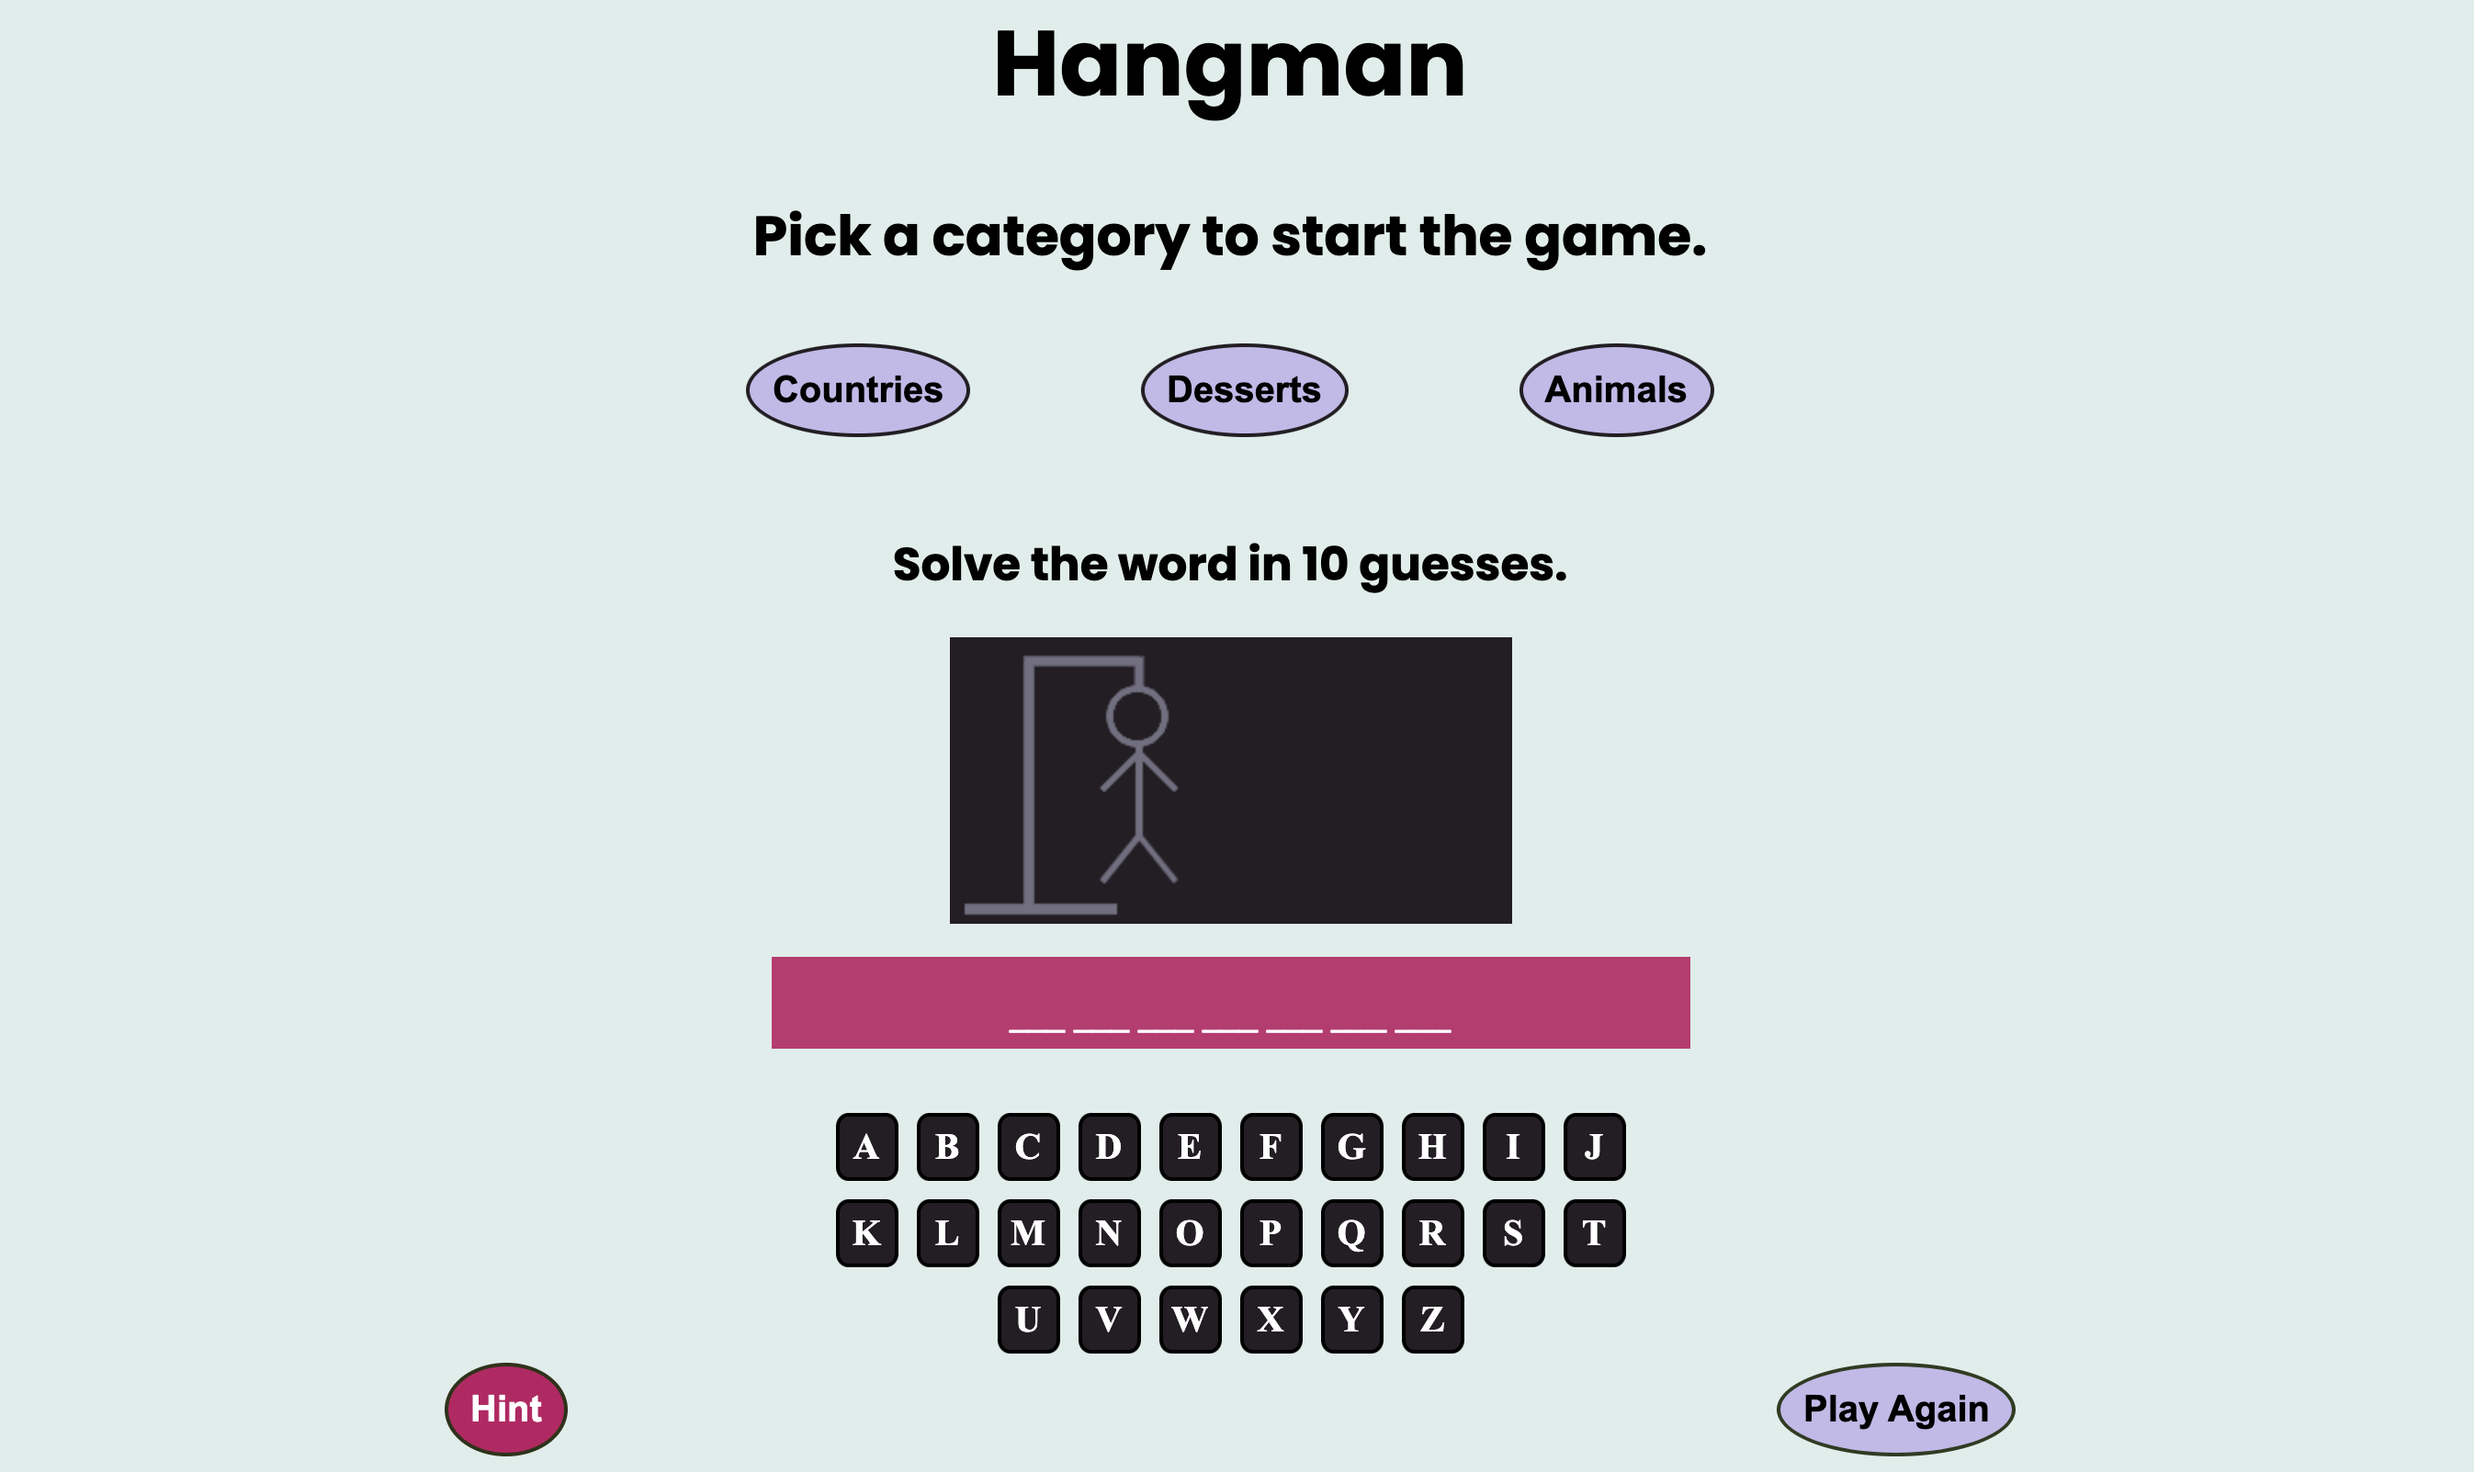
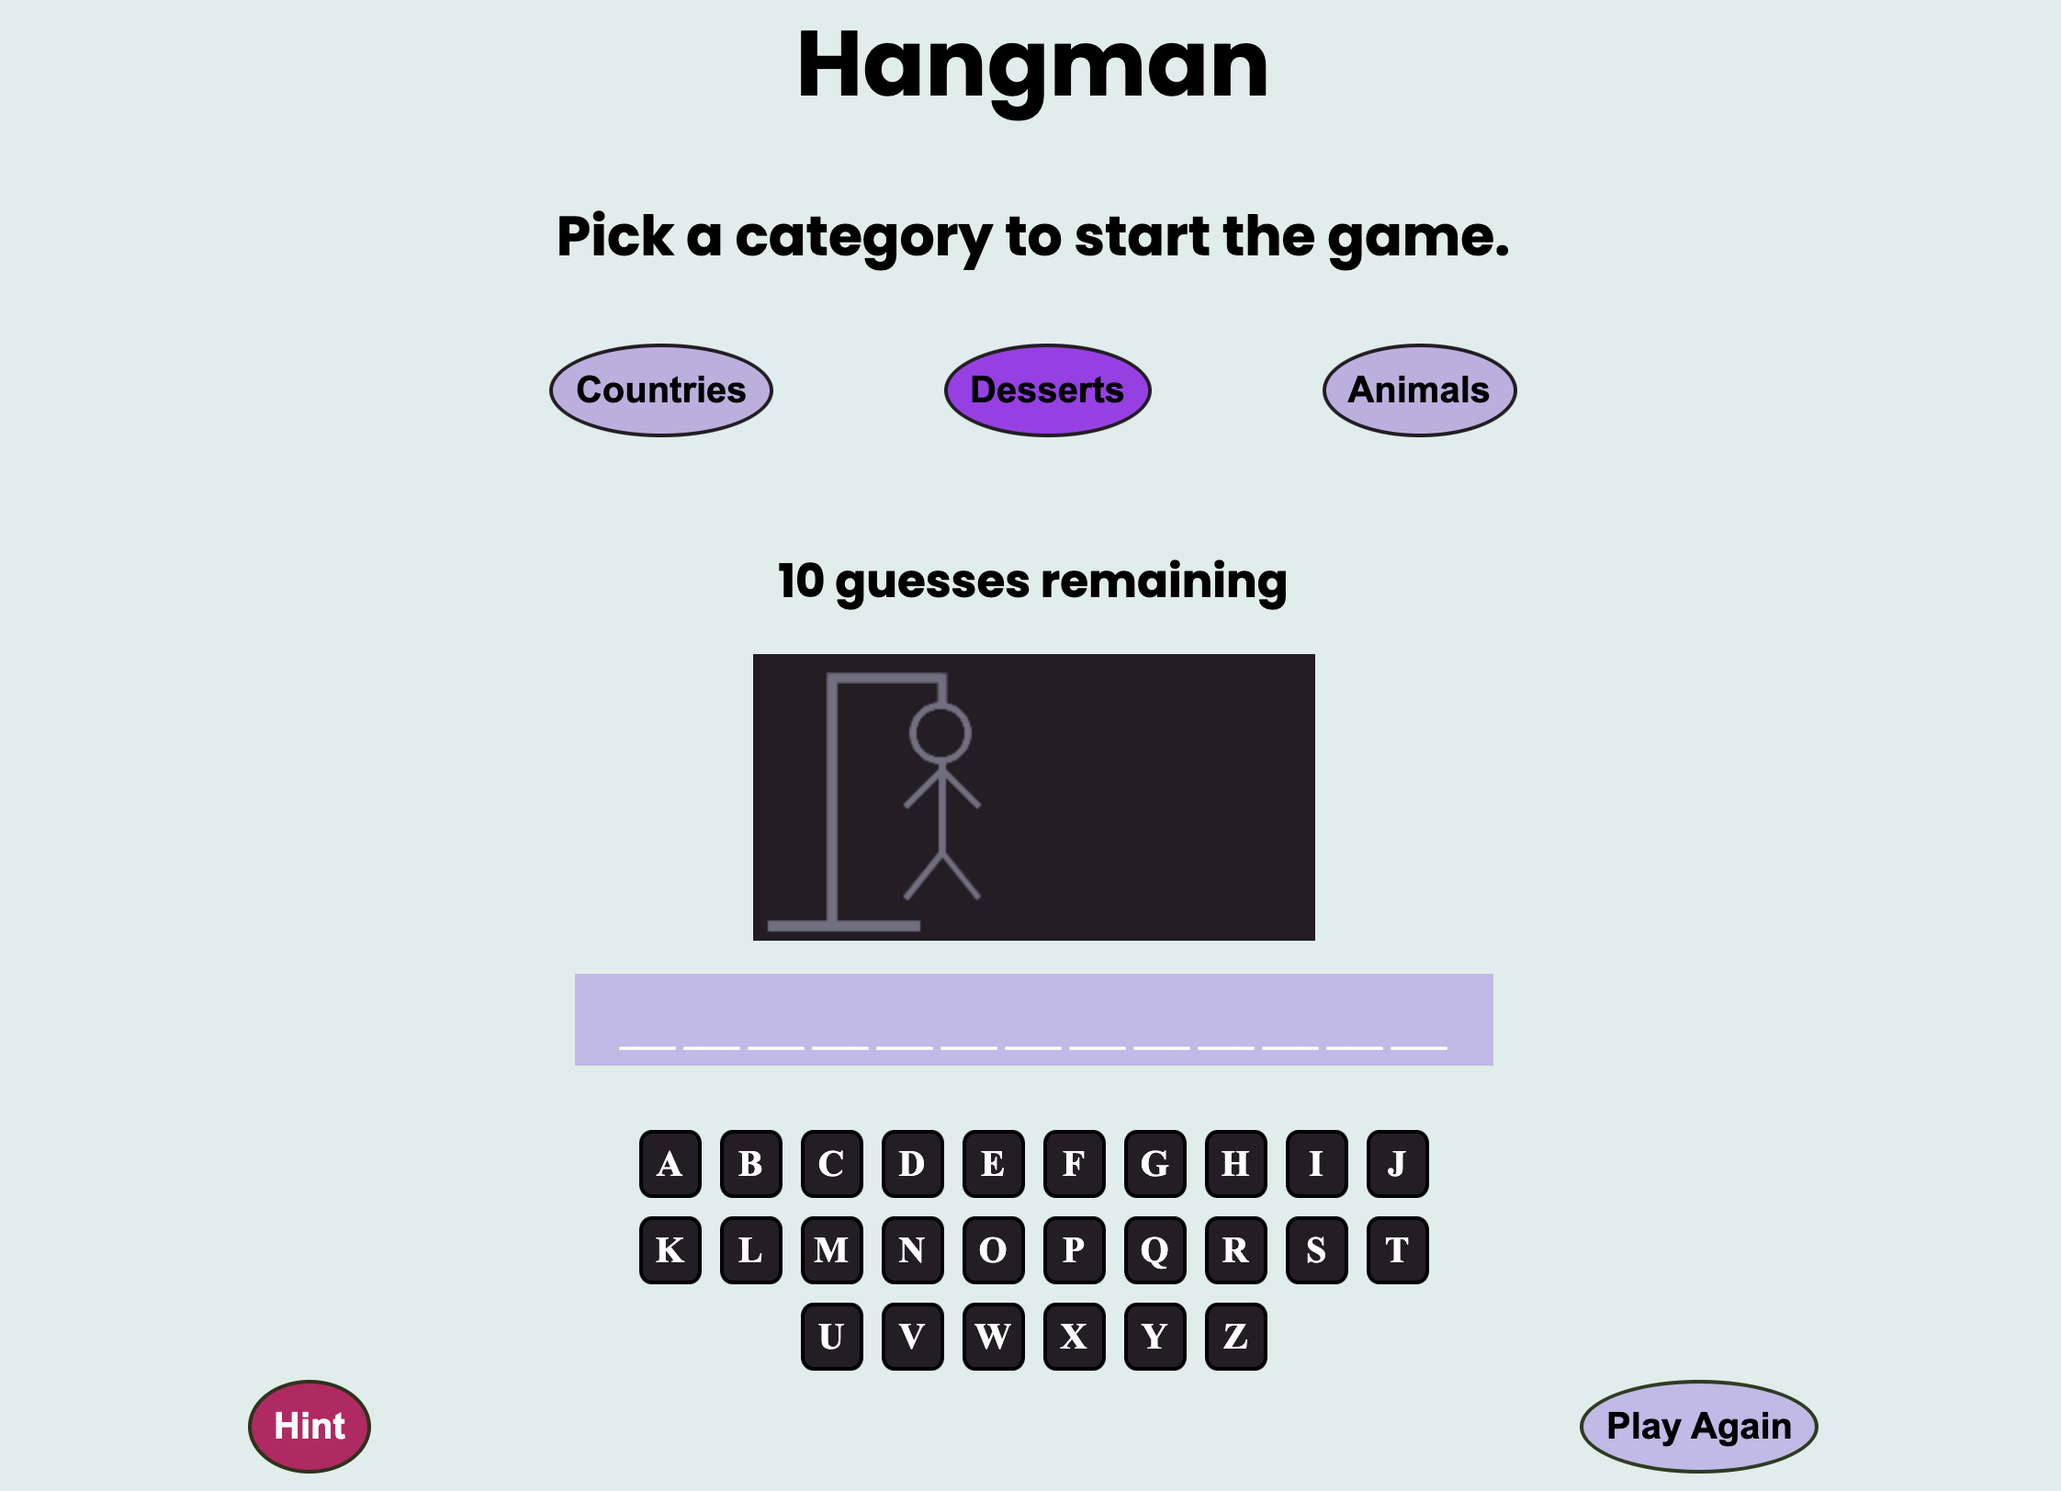
update readme

diff --git a/js/main.js b/js/main.js
@@ -6,14 +6,14 @@ let dashes = [];
 let currentWord = [];
 let usedLetter;
 let indexNumber;
-let currentCateroy = false;
+let currentCategory = false;
 
 let letters = document.querySelectorAll(".letter");
 letters.forEach((el) => el.addEventListener("click", keyBoard, { once: true }));
 
 let guessContainer = document.querySelector(".empty-guess");
 
-let numOfguesses = document.querySelector(".guesses");
+let numOfGuesses = document.querySelector(".guesses");
 
 let displayHint = document.querySelector(".hint-display");
 
@@ -104,7 +104,7 @@ const wordCategory = {
 };
 
 function selectCountriesCategory(evt) {
-  currentCateroy = evt.target.id;
+  currentCategory = evt.target.id;
   dashes = [];
 
   if (true) {
@@ -119,7 +119,7 @@ function selectCountriesCategory(evt) {
 }
 
 function selectDessertsCategory(evt) {
-  currentCateroy = evt.target.id;
+  currentCategory = evt.target.id;
   dashes = [];
 
   if (true) {
@@ -133,7 +133,7 @@ function selectDessertsCategory(evt) {
   }
 }
 function selectAnimalsCategory(evt) {
-  currentCateroy = evt.target.id;
+  currentCategory = evt.target.id;
   dashes = [];
 
   if (true) {
@@ -151,13 +151,13 @@ function keyBoard(evt) {
   letterClicked = evt.target.id;
   usedLetter = evt.target;
 
-  if (currentCateroy) {
+  if (currentCategory) {
     usedLetter.classList.add("used-letter");
     evaluateLetters();
     drawCanvas();
 
     if (correctLetter.length === dashes.length) {
-      numOfguesses.innerHTML = "You Won!";
+      numOfGuesses.innerHTML = "You Won!";
     }
   }
   guessContainer.innerHTML = dashes.join(" ");
@@ -184,20 +184,20 @@ function evaluateLetters() {
 }
 
 function displayHintBtn() {
-  if (currentCateroy === "countries-btn") {
+  if (currentCategory === "countries-btn") {
     displayHint.innerHTML = wordCategory.countries[indexNumber].hint;
   }
 
-  if (currentCateroy === "desserts-btn") {
+  if (currentCategory === "desserts-btn") {
     displayHint.innerHTML = wordCategory.desserts[indexNumber].hint;
   }
 
-  if (currentCateroy === "animals-btn") {
+  if (currentCategory === "animals-btn") {
     displayHint.innerHTML = wordCategory.animals[indexNumber].hint;
   }
 }
 
-function dispalyCanvasOnLoad() {
+function displayCanvasOnLoad() {
   ctx.lineWidth = 5;
   ctx.beginPath();
   ctx.strokeStyle = "#716F81";
@@ -234,11 +234,11 @@ function dispalyCanvasOnLoad() {
   ctx.stroke();
 }
 
-dispalyCanvasOnLoad();
+displayCanvasOnLoad();
 
 function drawCanvas() {
   if (incorrectLetter.length === 1) {
-    numOfguesses.innerHTML = `9 guesses remaining.`;
+    numOfGuesses.innerHTML = `9 guesses remaining.`;
     ctx.lineWidth = 5;
     ctx.beginPath();
     ctx.strokeStyle = "#CE1212";
@@ -246,44 +246,44 @@ function drawCanvas() {
     ctx.lineTo(5, 145);
     ctx.stroke();
   } else if (incorrectLetter.length === 2) {
-    numOfguesses.innerHTML = `8 guesses remaining.`;
+    numOfGuesses.innerHTML = `8 guesses remaining.`;
     ctx.moveTo(40, 145);
     ctx.lineTo(40, 10);
     ctx.stroke();
   } else if (incorrectLetter.length === 3) {
-    numOfguesses.innerHTML = `7 guesses remaining.`;
+    numOfGuesses.innerHTML = `7 guesses remaining.`;
     ctx.lineTo(100, 10);
     ctx.stroke();
   } else if (incorrectLetter.length === 4) {
-    numOfguesses.innerHTML = `6 guesses remaining.`;
+    numOfGuesses.innerHTML = `6 guesses remaining.`;
     ctx.lineTo(100, 25);
     ctx.moveTo(100, 25);
     ctx.stroke();
     ctx.closePath();
   } else if (incorrectLetter.length === 5) {
-    numOfguesses.innerHTML = `5 guesses remaining.`;
+    numOfGuesses.innerHTML = `5 guesses remaining.`;
 
     ctx.lineWidth = 3;
     ctx.beginPath();
     ctx.arc(99, 40, 15, 0, Math.PI * 2);
     ctx.stroke();
   } else if (incorrectLetter.length === 6) {
-    numOfguesses.innerHTML = `4 guesses remaining.`;
+    numOfGuesses.innerHTML = `4 guesses remaining.`;
     ctx.moveTo(100, 55);
     ctx.lineTo(100, 105);
     ctx.stroke();
   } else if (incorrectLetter.length === 7) {
-    numOfguesses.innerHTML = `3 guesses remaining.`;
+    numOfGuesses.innerHTML = `3 guesses remaining.`;
     ctx.moveTo(100, 60);
     ctx.lineTo(80, 80);
     ctx.stroke();
   } else if (incorrectLetter.length === 8) {
-    numOfguesses.innerHTML = `2 guesses remaining.`;
+    numOfGuesses.innerHTML = `2 guesses remaining.`;
     ctx.moveTo(100, 60);
     ctx.lineTo(120, 80);
     ctx.stroke();
   } else if (incorrectLetter.length === 9) {
-    numOfguesses.innerHTML = `1 guess remaining.`;
+    numOfGuesses.innerHTML = `1 guess remaining.`;
     ctx.moveTo(100, 105);
     ctx.lineTo(80, 130);
     ctx.stroke();
@@ -295,22 +295,22 @@ function drawCanvas() {
     ctx.lineTo(120, 130);
     ctx.stroke();
     ctx.fill();
-    numOfguesses.innerHTML = `GAME OVER.`;
+    numOfGuesses.innerHTML = `GAME OVER.`;
     dashes = [];
     dashes.push(currentWord);
   }
 }
 
 function resetCategories() {
-  if (currentCateroy === "countries-btn") {
+  if (currentCategory === "countries-btn") {
     indexNumber = Math.floor(Math.random() * wordCategory.countries.length);
     currentWord = wordCategory.countries[indexNumber].word.toUpperCase();
     showSpaces();
-  } else if (currentCateroy === "desserts-btn") {
+  } else if (currentCategory === "desserts-btn") {
     indexNumber = Math.floor(Math.random() * wordCategory.desserts.length);
     currentWord = wordCategory.desserts[indexNumber].word.toUpperCase();
     showSpaces();
-  } else if (currentCateroy === "animals-btn") {
+  } else if (currentCategory === "animals-btn") {
     indexNumber = Math.floor(Math.random() * wordCategory.animals.length);
     currentWord = wordCategory.animals[indexNumber].word.toUpperCase();
     showSpaces();
@@ -322,13 +322,13 @@ function resetGame() {
     el.addEventListener("click", keyBoard, { once: true })
   );
   letters.forEach((el) => el.classList.remove("used-letter"));
-  numOfguesses.innerHTML = "10 guesses remaining";
+  numOfGuesses.innerHTML = "10 guesses remaining";
   displayHint.innerHTML = null;
   dashes = [];
   correctLetter = [];
   incorrectLetter = [];
   guessContainer.innerHTML = " ";
   ctx.clearRect(0, 0, 400, 400);
-  dispalyCanvasOnLoad();
+  displayCanvasOnLoad();
   resetCategories();
 }

diff --git a/css/style.css b/css/style.css
@@ -57,7 +57,7 @@ h1 {
   margin-top: 10px;
   display: flex;
   justify-content: center;
-  background-color: rgba(191, 19, 99, 0.9);
+  background-color: #c3b9ea;
   color: white;
   font-family: "Times New Roman", Times, serif;
   line-height: 3;

diff --git a/README.md b/README.md
@@ -1,6 +1,6 @@
 # My Hangman Game
 
-Hangman is a word guessing game. To start the game chooses a category. Blank lines will appear that is the length of the unknown word. Click on any letter that you think might be in the unknown word. Once a letter has been clicked it will turn a light grey color indicateing it has been clicked.
+Hangman is a word guessing game. To start the game choose a category. Blank lines will appear that is the length of the unknown word. Click on any letter that you think might be in the unknown word. Once a letter has been clicked it will turn a light grey color indicating it has been clicked.
 If the letter that is guessed is in the unknown word it will replace one of the blank lines in the correct position of the word. If all of the correct letters are guessed you will receive a message saying 'You Won!'. For every incorrect guess the canvas will draw one part of the hangman image. If 10 incorrect letters are guessed a 'Game Over' message is displayed.
 The hint button can be used to display a hint about the unknown word.
 The play again button can be used to stat a new game.
@@ -8,8 +8,7 @@ The play again button can be used to stat a new game.
 ## Screenshots
 
 ![Hangman](css/Hangman-1.png)
-![Hangman](css/Hangman-3.png)
-![Hangman](css/Hangman-5.png)
+![Hangman](css/Hangman-2.png)
 
 ## Tech Stack
 
@@ -24,3 +23,4 @@ https://samueljnel.github.io/My-Hangman-Game-/
 ## Next Steps
 
 Add more categories for the user to choose from.
+Have the game reset by changing categories.
